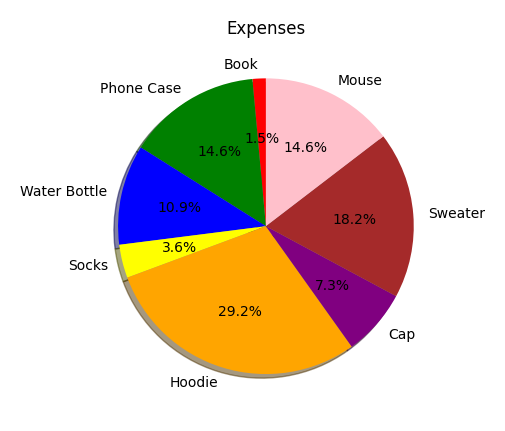
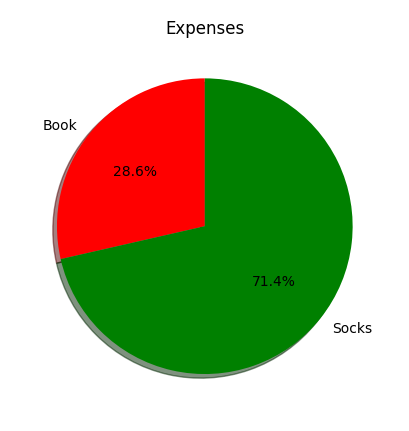
Made some changes to the chart generating code

diff --git a/src/view/Expenses.java b/src/view/Expenses.java
@@ -12,6 +12,7 @@ import java.util.Vector;
 import javax.swing.JOptionPane;
 import javax.swing.table.DefaultTableModel;
 import model.ExpenseModel;
+import model.User;
 import view.AfterLogin;
 import view.ExpenseChart;
 import view.Savings;
@@ -28,11 +29,15 @@ public class Expenses extends javax.swing.JFrame {
     public Expenses() {
         initComponents();
         table_update();
+        
+       
     }
     
     private void table_update(){
       String selectedItem = monthDropdown.getSelectedItem().toString();
       System.out.println(selectedItem);
+      
+       
 
       int c;
       ExpenseController ec = new ExpenseController();
@@ -312,6 +317,14 @@ public class Expenses extends javax.swing.JFrame {
     }//GEN-LAST:event_jButton1ActionPerformed
 
     private void jButton4ActionPerformed(java.awt.event.ActionEvent evt) {//GEN-FIRST:event_jButton4ActionPerformed
+    ProcessBuilder pb = new ProcessBuilder("python3", "home/prasanna/Documents/NewProjectTest/GroupApex/src/view/expensesChart.py", Integer.toString(User.id));
+
+    try {
+      Process p = pb.start();
+      p.waitFor();
+    } catch (Exception e) {
+      System.out.println("Error: " + e);
+    }
         ExpenseChart ec = new ExpenseChart();
         ec.setVisible(true);
         this.dispose();

diff --git a/build/classes/view/expensesChart.py b/build/classes/view/expensesChart.py
@@ -1,4 +1,7 @@
 # import mysql connector
+# use mysql-connector 
+# pip install mysql-connector-python
+# pip install mysql-connector-python-rf
 import mysql.connector
 # to make a pie chart from mysql table named expenses which has 3 columns named  name , cost and date
 
@@ -10,11 +13,16 @@ mydb = mysql.connector.connect(
   database="apex"
 )
 
+# store command line arguments in variables
+# import sys
+import sys
+uid = sys.argv[1]
+
 # create a cursor
 mycursor = mydb.cursor()
 
 # execute the query
-mycursor.execute("SELECT expense_name, expense_amount FROM expenses_data")
+mycursor.execute("SELECT expense_name, expense_amount FROM expenses_data WHERE uid = "+uid+"")
 
 # fetch all the records
 result = mycursor.fetchall()

diff --git a/src/view/expensesChart.py b/src/view/expensesChart.py
@@ -1,4 +1,7 @@
 # import mysql connector
+# use mysql-connector 
+# pip install mysql-connector-python
+# pip install mysql-connector-python-rf
 import mysql.connector
 # to make a pie chart from mysql table named expenses which has 3 columns named  name , cost and date
 
@@ -10,11 +13,16 @@ mydb = mysql.connector.connect(
   database="apex"
 )
 
+# store command line arguments in variables
+# import sys
+import sys
+uid = sys.argv[1]
+
 # create a cursor
 mycursor = mydb.cursor()
 
 # execute the query
-mycursor.execute("SELECT expense_name, expense_amount FROM expenses_data")
+mycursor.execute("SELECT expense_name, expense_amount FROM expenses_data WHERE uid = "+uid+"")
 
 # fetch all the records
 result = mycursor.fetchall()
